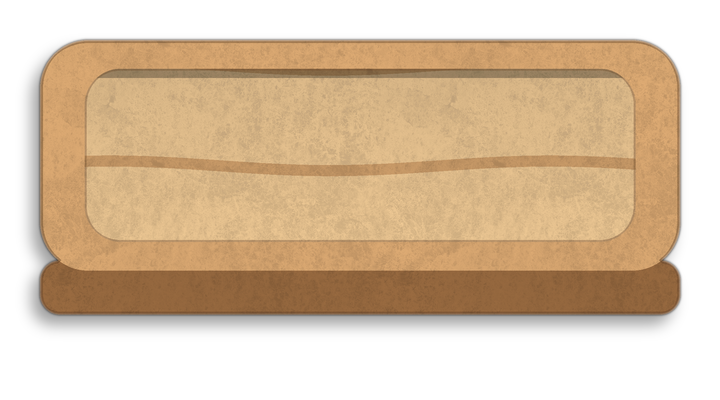
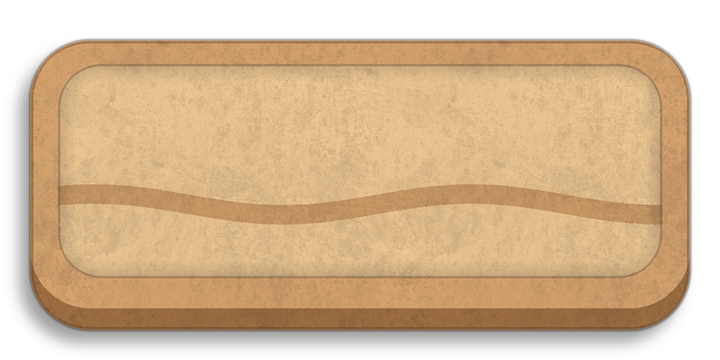
Ice cream pays per scoop (15 a scoop); the coffee tray back as the owner drew it (the 0.62 squash is its 40-degree view); chapter 2 map approved

diff --git a/Assets/Scripts/Utils/FixedStation.cs b/Assets/Scripts/Utils/FixedStation.cs
@@ -46,9 +46,8 @@ public static class FixedStation
         // machine x 0.44 y 0.485 w 0.77 h 0.89; cups x 0.51 y 0.53 w 0.55 h 0.29, from the png alphas, 16 October)
         var x = bounds.min.x + MarginLeft;
         var floorY = bounds.min.y + MarginBottom;        // the tray's bottom edge (its front face and shadow included)
-        var feetY = floorY + 0.16f;                       // where the objects stand; raised onto the board once the tray's size is known (18 October)
+        var feetY = floorY + 0.16f;                       // where the objects stand, inside the tray
         var left = x; var right = x; var top = feetY;
-        var placed = new System.Collections.Generic.List<(Transform t, float yOff)>();
         var row = new[] { machine != null ? machine.transform : null, food != null ? food.transform : null };
         var frac = new[] { new Vector4(0.44f, 0.485f, 0.77f, 0.89f), new Vector4(0.51f, 0.53f, 0.55f, 0.29f) };
         if (fixedFood == "IceCream") frac[1] = new Vector4(0.5f, 0.5f, 1f, 1f);          // the station box picture has no padding (17 October)
@@ -62,7 +61,6 @@ public static class FixedStation
             var dx = t.position.x - dc.x; var dy = t.position.y - dc.y;                       // the pivot's offset from the drawn centre
             var nudge = i == 1 && machine != null ? new Vector2(-0.10f, -0.06f) : Vector2.zero;   // the cups a little down and left, deeper on the tray (owner, 16 October)
             t.position = new Vector3(x + halfW + dx + nudge.x, feetY + halfH + dy + nudge.y, t.position.z);
-            placed.Add((t, halfH + dy + nudge.y));
             right = x + 2f * halfW; top = Mathf.Max(top, feetY + 2f * halfH);
             x = right + Gap;
         }
@@ -76,12 +74,9 @@ public static class FixedStation
         var r = go.GetComponent<SpriteRenderer>(); if (r == null) r = go.AddComponent<SpriteRenderer>();   // never ?? on a Unity object: a missing component is not C# null
         r.sprite = sprite; r.sortingLayerName = "FoodItems"; r.sortingOrder = -1;
         var width = (right - left) + 0.3f; var scale = width / sprite.bounds.size.x;          // hugs the machine and the cups with a little air
-        go.transform.localScale = new Vector3(scale, scale, 1f);                               // drawn at the 40-degree view (18 October): no squash
-        var h = sprite.bounds.size.y * scale;
-        go.transform.position = new Vector3((left + right) / 2f, floorY + h / 2f, 0.06f);      // the tray's bottom edge on floorY
-        // the objects stand on the board: its front edge is 0.324 of the picture up from the bottom (coffee_station40.py)
-        feetY = floorY + 0.34f * h;
-        foreach (var (t, yOff) in placed) t.position = new Vector3(t.position.x, feetY + yOff, t.position.z);
+        go.transform.localScale = new Vector3(scale, scale * 0.62f, 1f);                       // the 0.62 squash is the 40-degree foreshortening of the board (sin 40)
+        var h = sprite.bounds.size.y * scale * 0.62f;
+        go.transform.position = new Vector3((left + right) / 2f, floorY + h / 2f, 0.06f);      // the tray's bottom edge on floorY; the objects' feet inside it
         // the station moves as one: the machine is the handle, the cups and the tray follow (owner, 16 October)
         var grp = go.GetComponent<StationGroup>(); if (grp == null) grp = go.AddComponent<StationGroup>();
         if (machine != null) grp.Bind(machine.transform, food != null ? food.transform : null, go.transform);

diff --git a/Assets/Scripts/Scoring/ScoreManager.cs b/Assets/Scripts/Scoring/ScoreManager.cs
@@ -161,6 +161,18 @@ public class ScoreManager : MonoBehaviour
         return points;
     }
 
+    /// Ice cream pays per scoop (owner, 18 October): the item's points times the scoops on the cone, one award
+    public float AwardItemPointsValue(string itemType, int times)
+    {
+        times = Mathf.Max(1, times);
+        var points = GetPointsForItem(itemType) * times;
+        currentScore += points;
+        currentOrderItemPoints += points;
+        if (starProgressBar != null) starProgressBar.UpdateDisplay(currentScore);
+        PlayPointsSound();
+        return points;
+    }
+
     /// Completion bonus for one order: its own points, time left and customer tip multiplier (12 October 2026)
     public void AwardOrderCompletionBonus(float remainingTime, float basepoints, float tipMultiplier)
     {

diff --git a/Assets/Scripts/ItemsAndOrders/OrderSystem.cs b/Assets/Scripts/ItemsAndOrders/OrderSystem.cs
@@ -518,7 +518,7 @@ public class OrderSystem : MonoBehaviour
         if (effectHandle != null) target.serveEffects.Add(effectHandle);
 
         // Award points for this item (kept on the order for its tip)
-        if (scoreManager != null) target.basePoints += scoreManager.AwardItemPointsValue(foodType);
+        if (scoreManager != null) target.basePoints += itemToServe.variant != null ? scoreManager.AwardItemPointsValue(foodType, itemToServe.variant.Length) : scoreManager.AwardItemPointsValue(foodType);   // ice cream: per scoop (owner, 18 October)
 
         // Patience: the flower that was draining fills up again (owner, 13 October: the hearts mechanic)
         RefillPatience(target);

diff --git a/Docs/chapter2-plan.md b/Docs/chapter2-plan.md
@@ -90,3 +90,4 @@ iPhone and iPad captures.
 14. Ice cream, built 17 October (owner: station good, three scoops per flavour, one down per take, the blender refills all; scoop order does not matter, only count and flavours; the container metal): `IceCreamStation.cs` on the table object `IceCream` in GameSceneOne (the chapter 2 fixed item on the FixedStation tray, its own drag handle: `FixedStation.IsHandle`), children built at runtime (four sections with their level pictures, the cones holder, the floating cone with up to three scoops and the red cross; 3D box colliders, taps through `IceCreamTap`). `IceCreamOrderIcon.cs` on `Prefabs/IceCream.prefab` shows the ordered cone from the parts; `OrderSystem` keeps a `variant` per order item (sorted letters v s c m), `TryServeItem(food, variant)`, `GetCurrentOrderTypesWithVariants()`. `SessionManager.IsFoodItemPurchased` is true for the chapter's fixed food. `BlenderAnim` refills the station at the end of a blend. Sprites: `Assets/Images/icecream/` from `Store/chapter2/icecream_station/cut_station.py` (my metal recolour of ChatGPT's box; Gemini's metal redraw in `gemini_metal_raw.png` is the alternative). Points: IceCream 35 flat. Open: the empty wells are a rough pass; scoops in the lowered sections squash with the ice cream; the autoplay driver cannot build cones yet (it reads `GetCurrentOrderTypesWithVariants`); the cone build is on the table, the station in the kitchen was the owner's other reading.
 15. Coconuts on the kitchen palm, four (owner, 17 October): `CoconutInKitchen` on the window's Coconuts image (KitchenWindow adds it when Coconut is on the menu; otherwise no cluster at all). Every tap takes one coconut onto the table tray (`RefillableItem.IncreaseCount(1)`); a full tray refuses the tap and the coconut stays; at zero the cluster hides and regrows with four after `respawnDelay` (8 s) through the same `CooldownRegistry` and `KitchenTimerHelper` the apples use; the count is a static and survives the kitchen closing. Pictures `Resources/Chapter2/coconuts_4..1` from `Store/chapter2/palm/four/coconuts_four.py` (one lobe of the old cluster set four times, the apples' halo); the palm picture itself has its painted coconuts erased (`palm_with_coconuts.png` keeps the original).
 16. Chapter 2 tuning (17 October): day lengths 85 s (day 17) to 130 s (day 32), +3 s a day (`/tmp/ap/ch2_days.cs`); star lines from the driver's measured scores (`Docs/tools/recipes/economy_tune_ch2.py` → `economy_tune_ch2.cs`): 230/410/600 on day 17, 300/560/810 from day 20. First chapter 2 driver run: no errors, zero stars under the draft lines (hence the retune); the verification run follows. Still open: `Chapter.Count = 2` for real, the screen-size captures, the store screenshots.
+17. Owner decisions, 18 October: the chapter 2 map (Cancer over the night beach) is approved as is; ice cream pays per scoop (`ScoreManager.AwardItemPointsValue(item, scoops)`, the scene's IceCream entry is 15 a scoop, so 15 to 45 a cone); the coffee tray stays as the owner drew it (the 0.62 y-scale in `FixedStation` is its 40-degree foreshortening; my 18 October redraw was wrong and is reverted, kept as `Store/artkit/coffee_station40.py` only).
